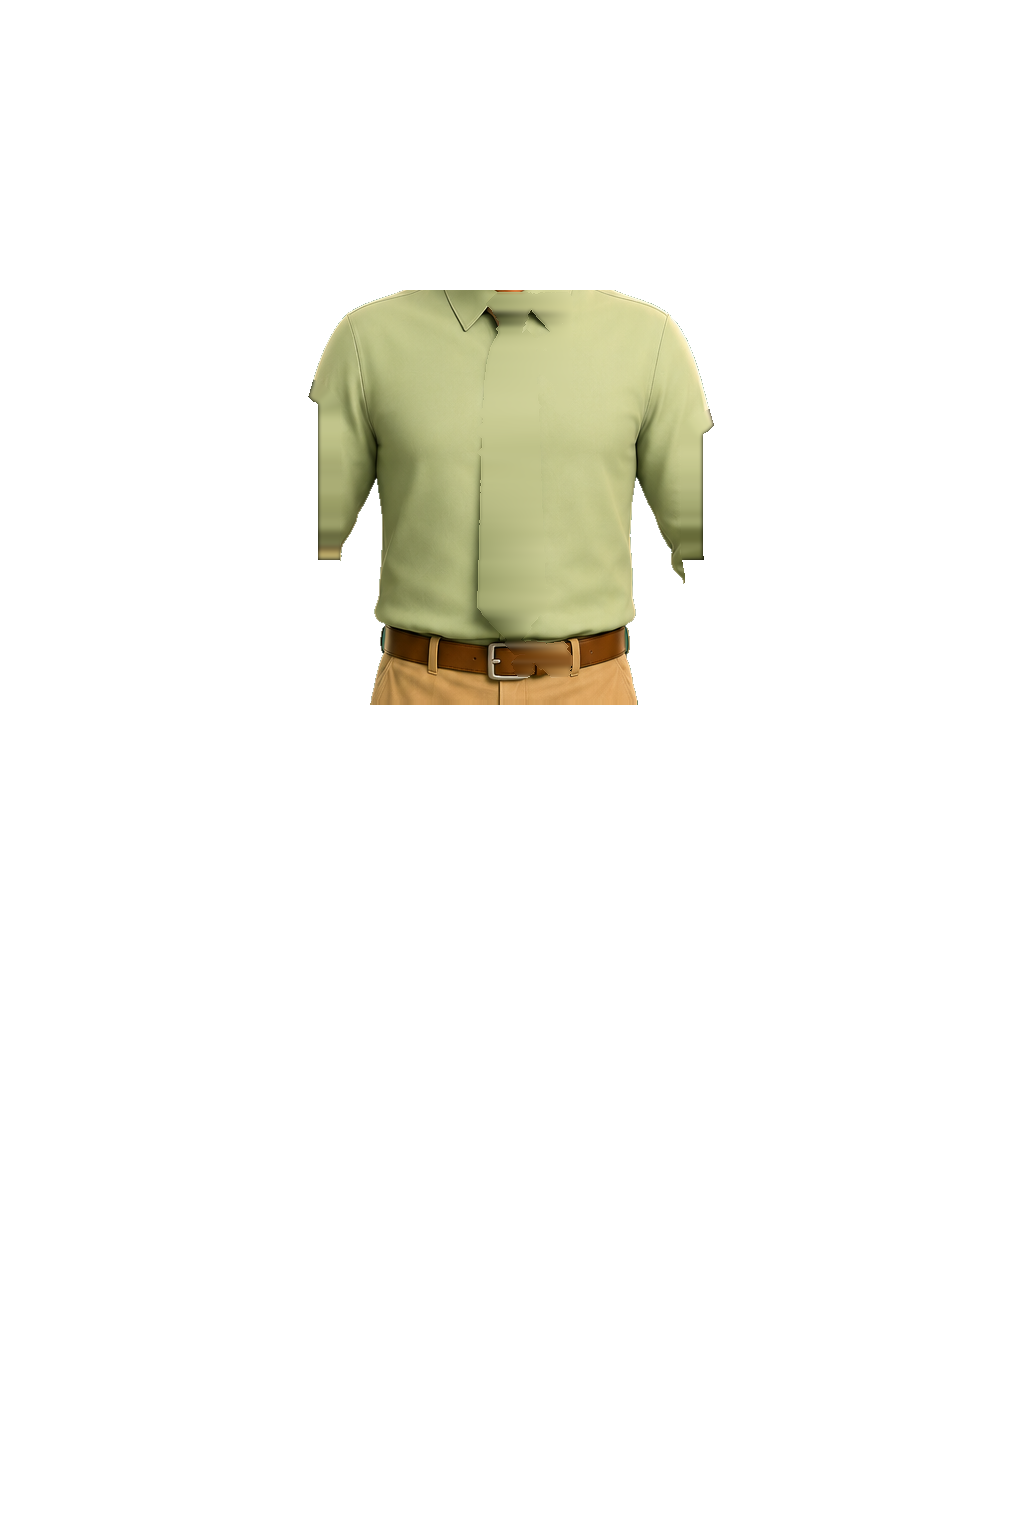
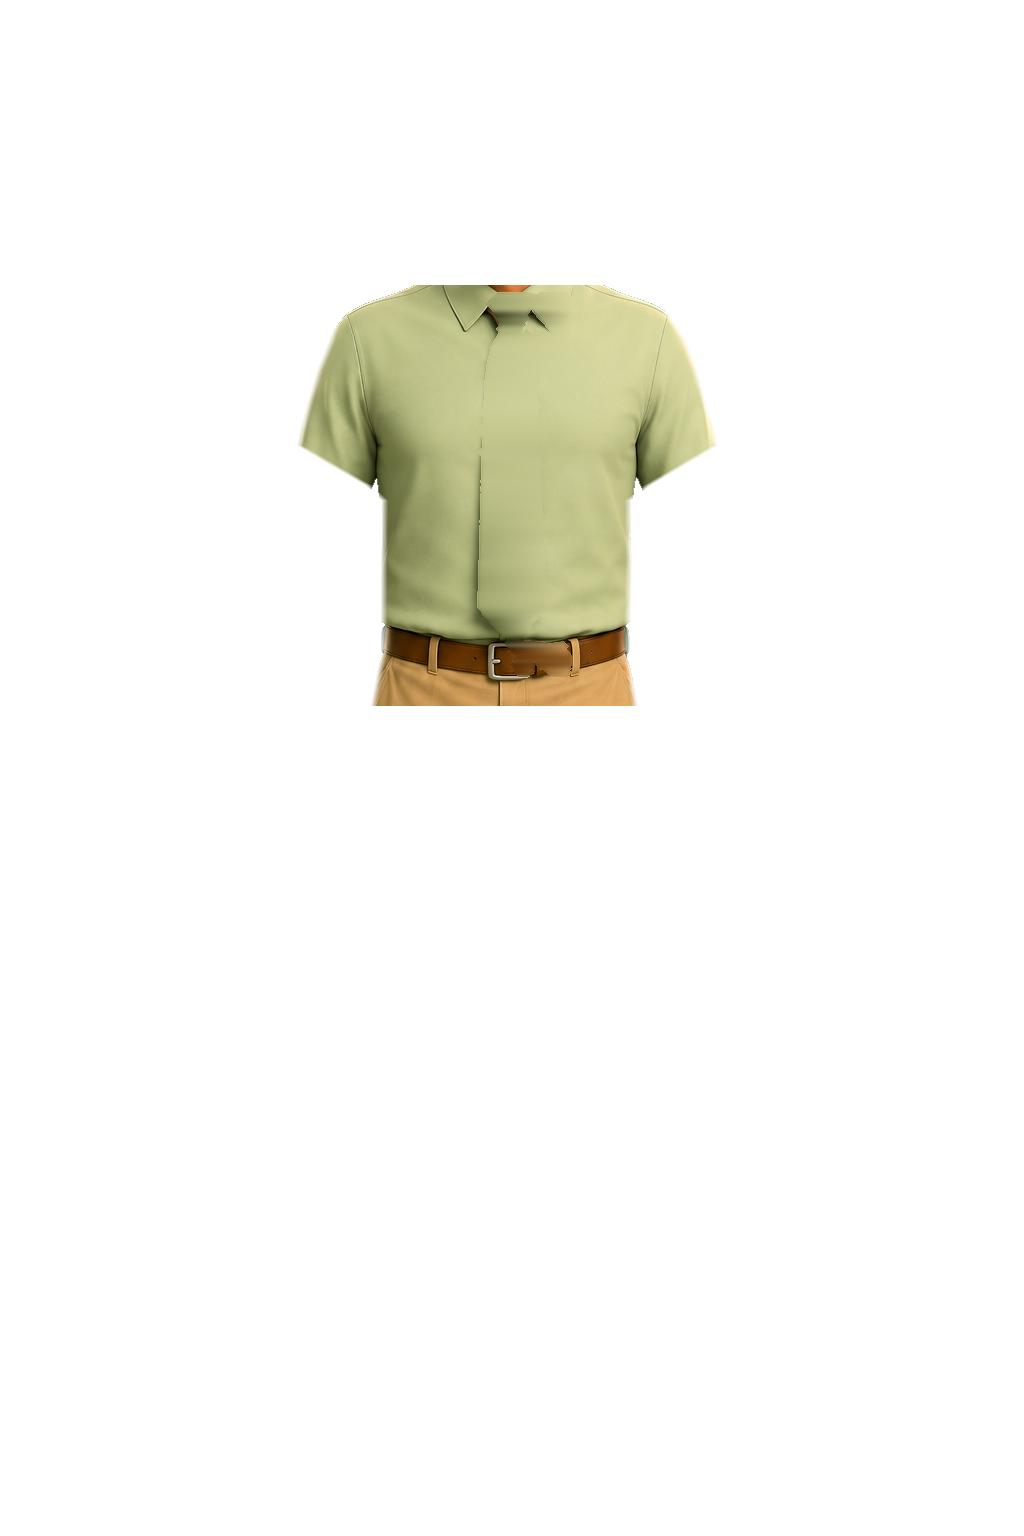
assets(animation-studio): Mr. Nappier rig v5 — fully free shoulders
v5 art drop: torso.png repainted with the baked short-sleeve caps
erased, and both upper_arm sprites now carry the complete sleeve
including the shoulder cap. No geometry changes (pivots/z/bboxes
identical to v4) — rig.json just bumps to version 5.

With the caps gone the shoulders are unconstrained: the supplier's
extreme-pose test (flat T-pose, both arms horizontal) renders clean,
and the armpit cap-tabs visible at v4's full raises are gone. Celebrate
raised to shoulders ±42 / elbows ±80 for a taller V-pose cheer;
verified via viewport screenshots at rest, celebrate peak, and wave
peak — clean joints, no console errors. Docs caveat removed.

Claude-Session: https://claude.ai/code/session_01S5ZVV6w4tMuNdL8Jh71uXY

diff --git a/docs/ANIMATION_STUDIO.md b/docs/ANIMATION_STUDIO.md
@@ -136,18 +136,16 @@ values are always shown exactly while editing):
 The `RigPlayer` runtime applies both automatically (`player.secondaryMotion` /
 `player.microMotion` to opt out).
 
-## Rig authoring notes (Mr. Nappier v4)
+## Rig authoring notes (Mr. Nappier v5)
 
 - Parent chain: `root → torso → head → face parts`, `torso → upper_arm → forearm → hand`,
   `root → thigh → shin → foot`. Slot variants (`lid_closed_*`, `mouth_ah`,
   `brow_raised_*`) are `hidden` parts toggled by slots.
-- **v4 arms draw above the torso** (z 44–46 vs torso 40) with extended joint
-  overlap at elbows/wrists/knees, so real shoulder raises work: `upper_arm`
-  up to ~±45° and `forearm` up to ~±95° stay clean — see `celebrate.json`
-  (V-pose cheer) / `wave.json`. The v3 "keep shoulders ≲20°" rule is gone.
-- Remaining art caveat: the torso still bakes in the short-sleeve caps, so big
-  raises expose small cap tabs at the armpits. A future torso repaint with the
-  caps erased would remove the last constraint.
+- Arms draw above the torso (z 44–46 vs torso 40) with extended joint overlap
+  at elbows/wrists/knees; as of v5 the torso's baked sleeve caps are erased and
+  the upper-arm sprites carry the full sleeve, so **the shoulders are fully
+  free** — even a flat T-pose renders clean. See `celebrate.json` (V-pose
+  cheer) / `wave.json`.
 - If a joint shows a seam at an extreme angle, back the angle off or nudge the
   child's `x`/`y` a couple of px at that key.
 - To add a rig: drop `public/rigs/<id>/` with the same structure and add it to the
